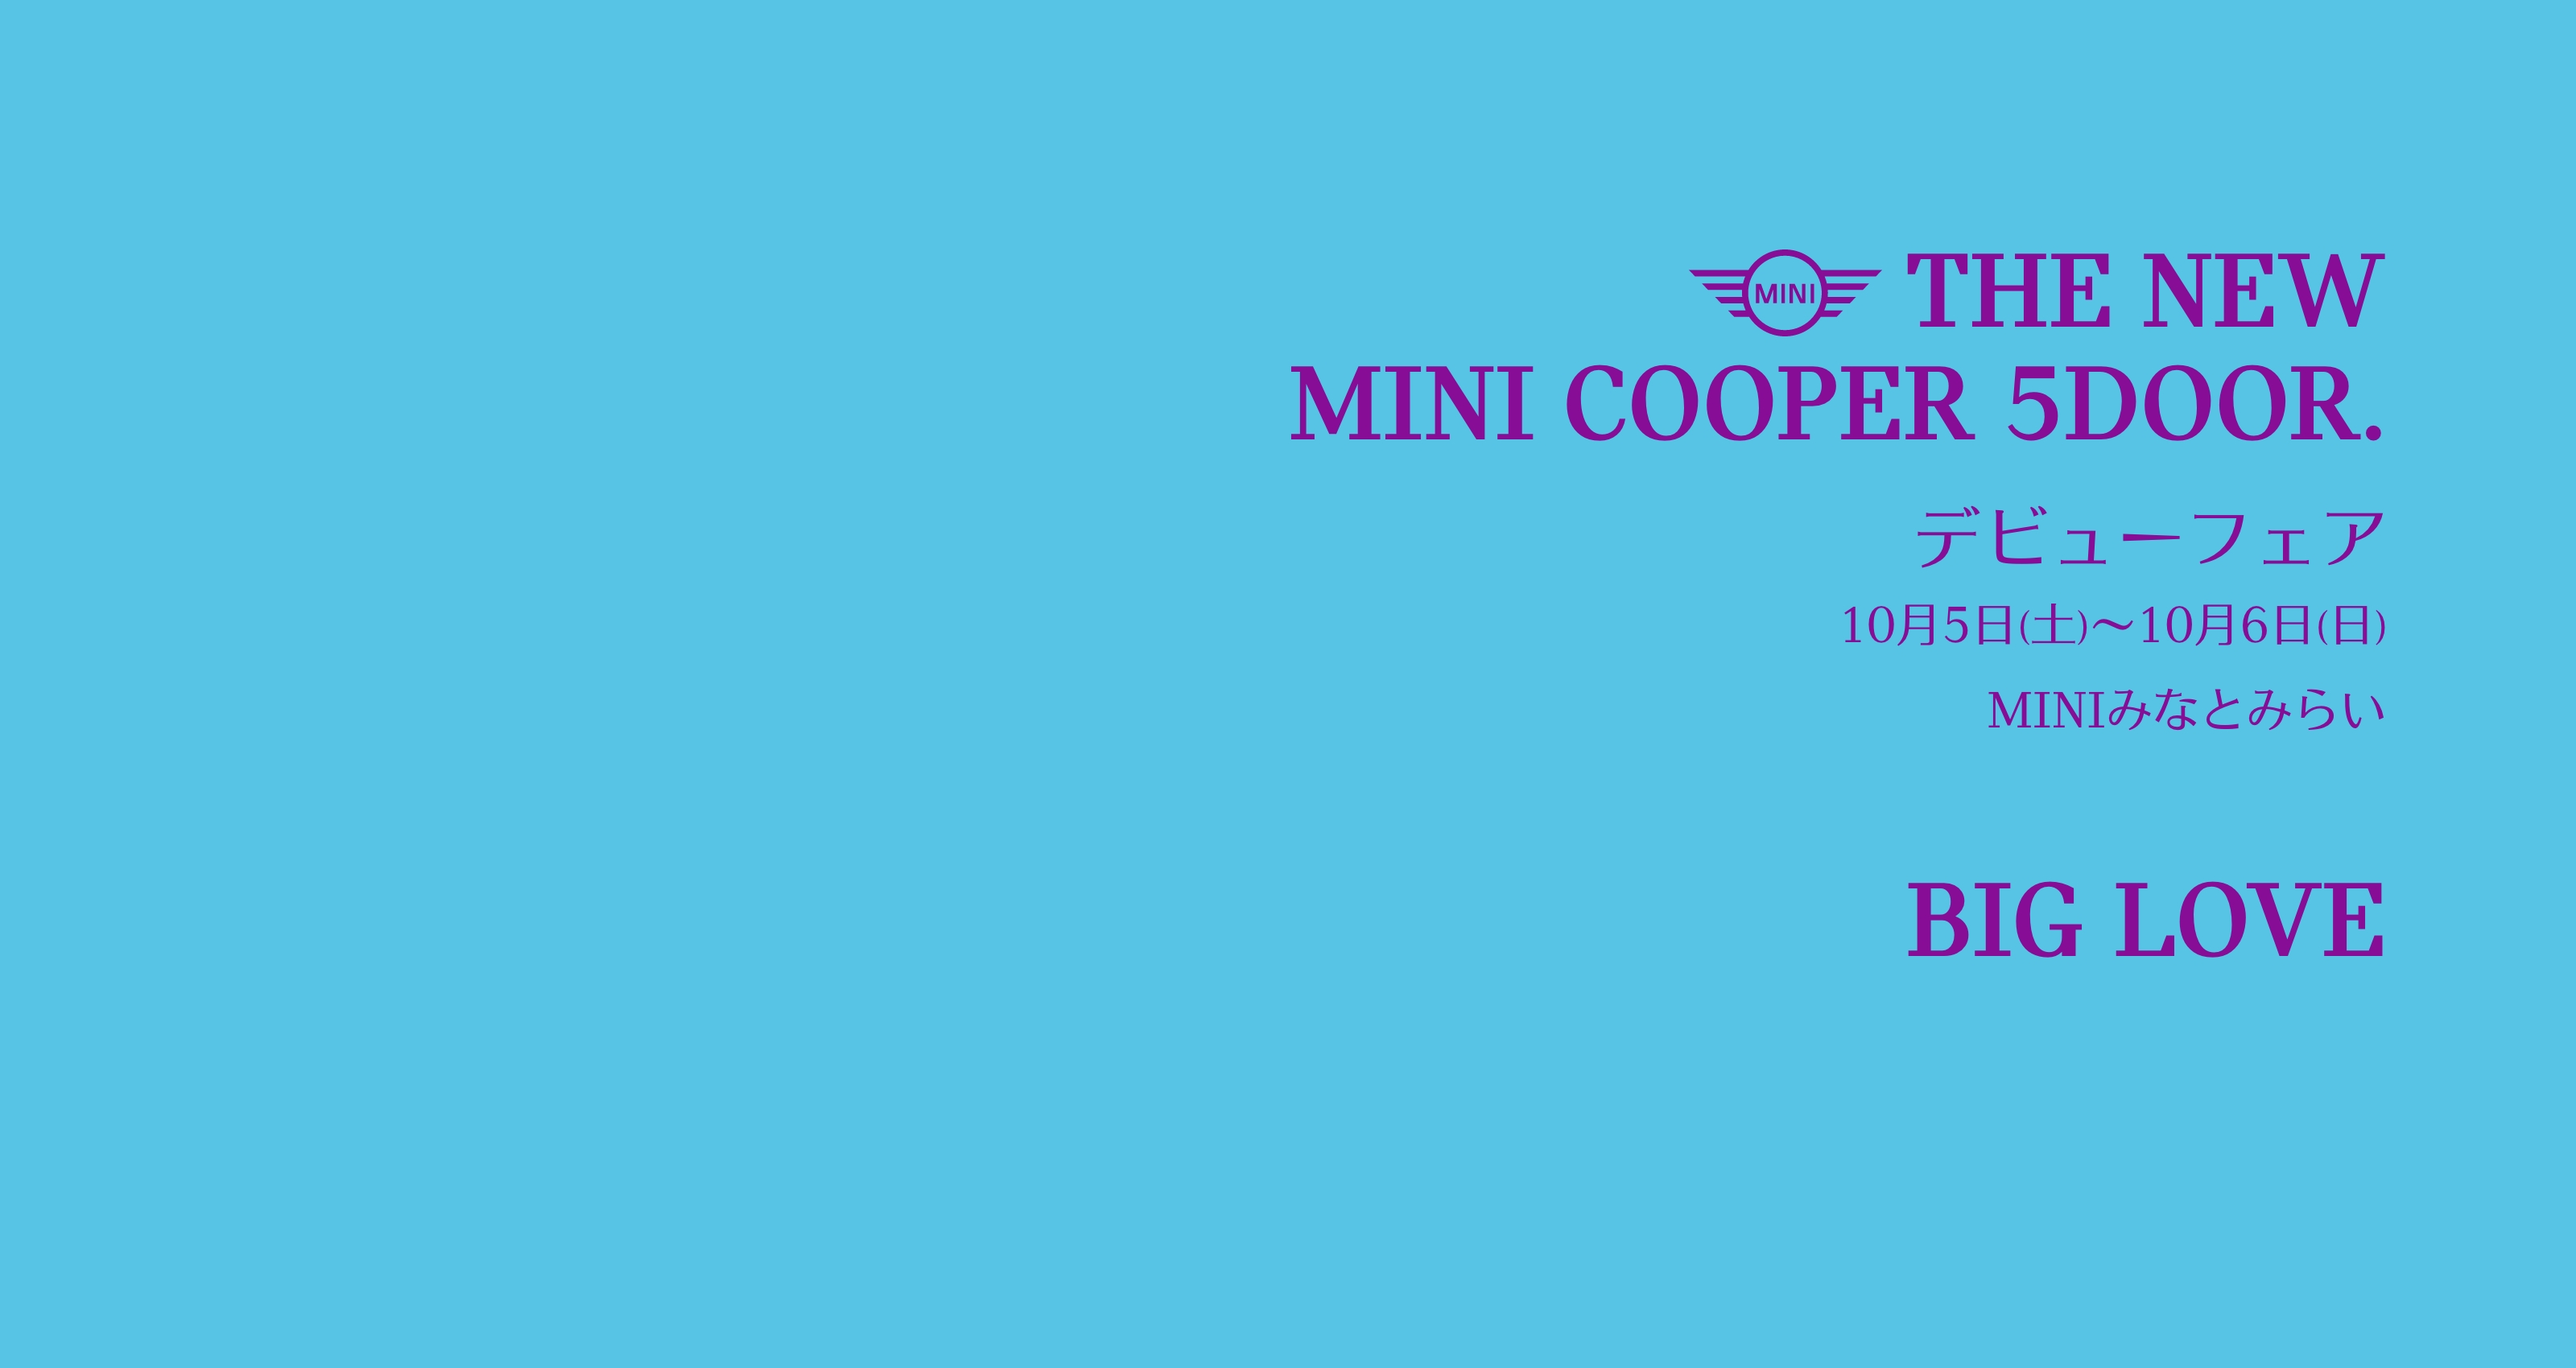
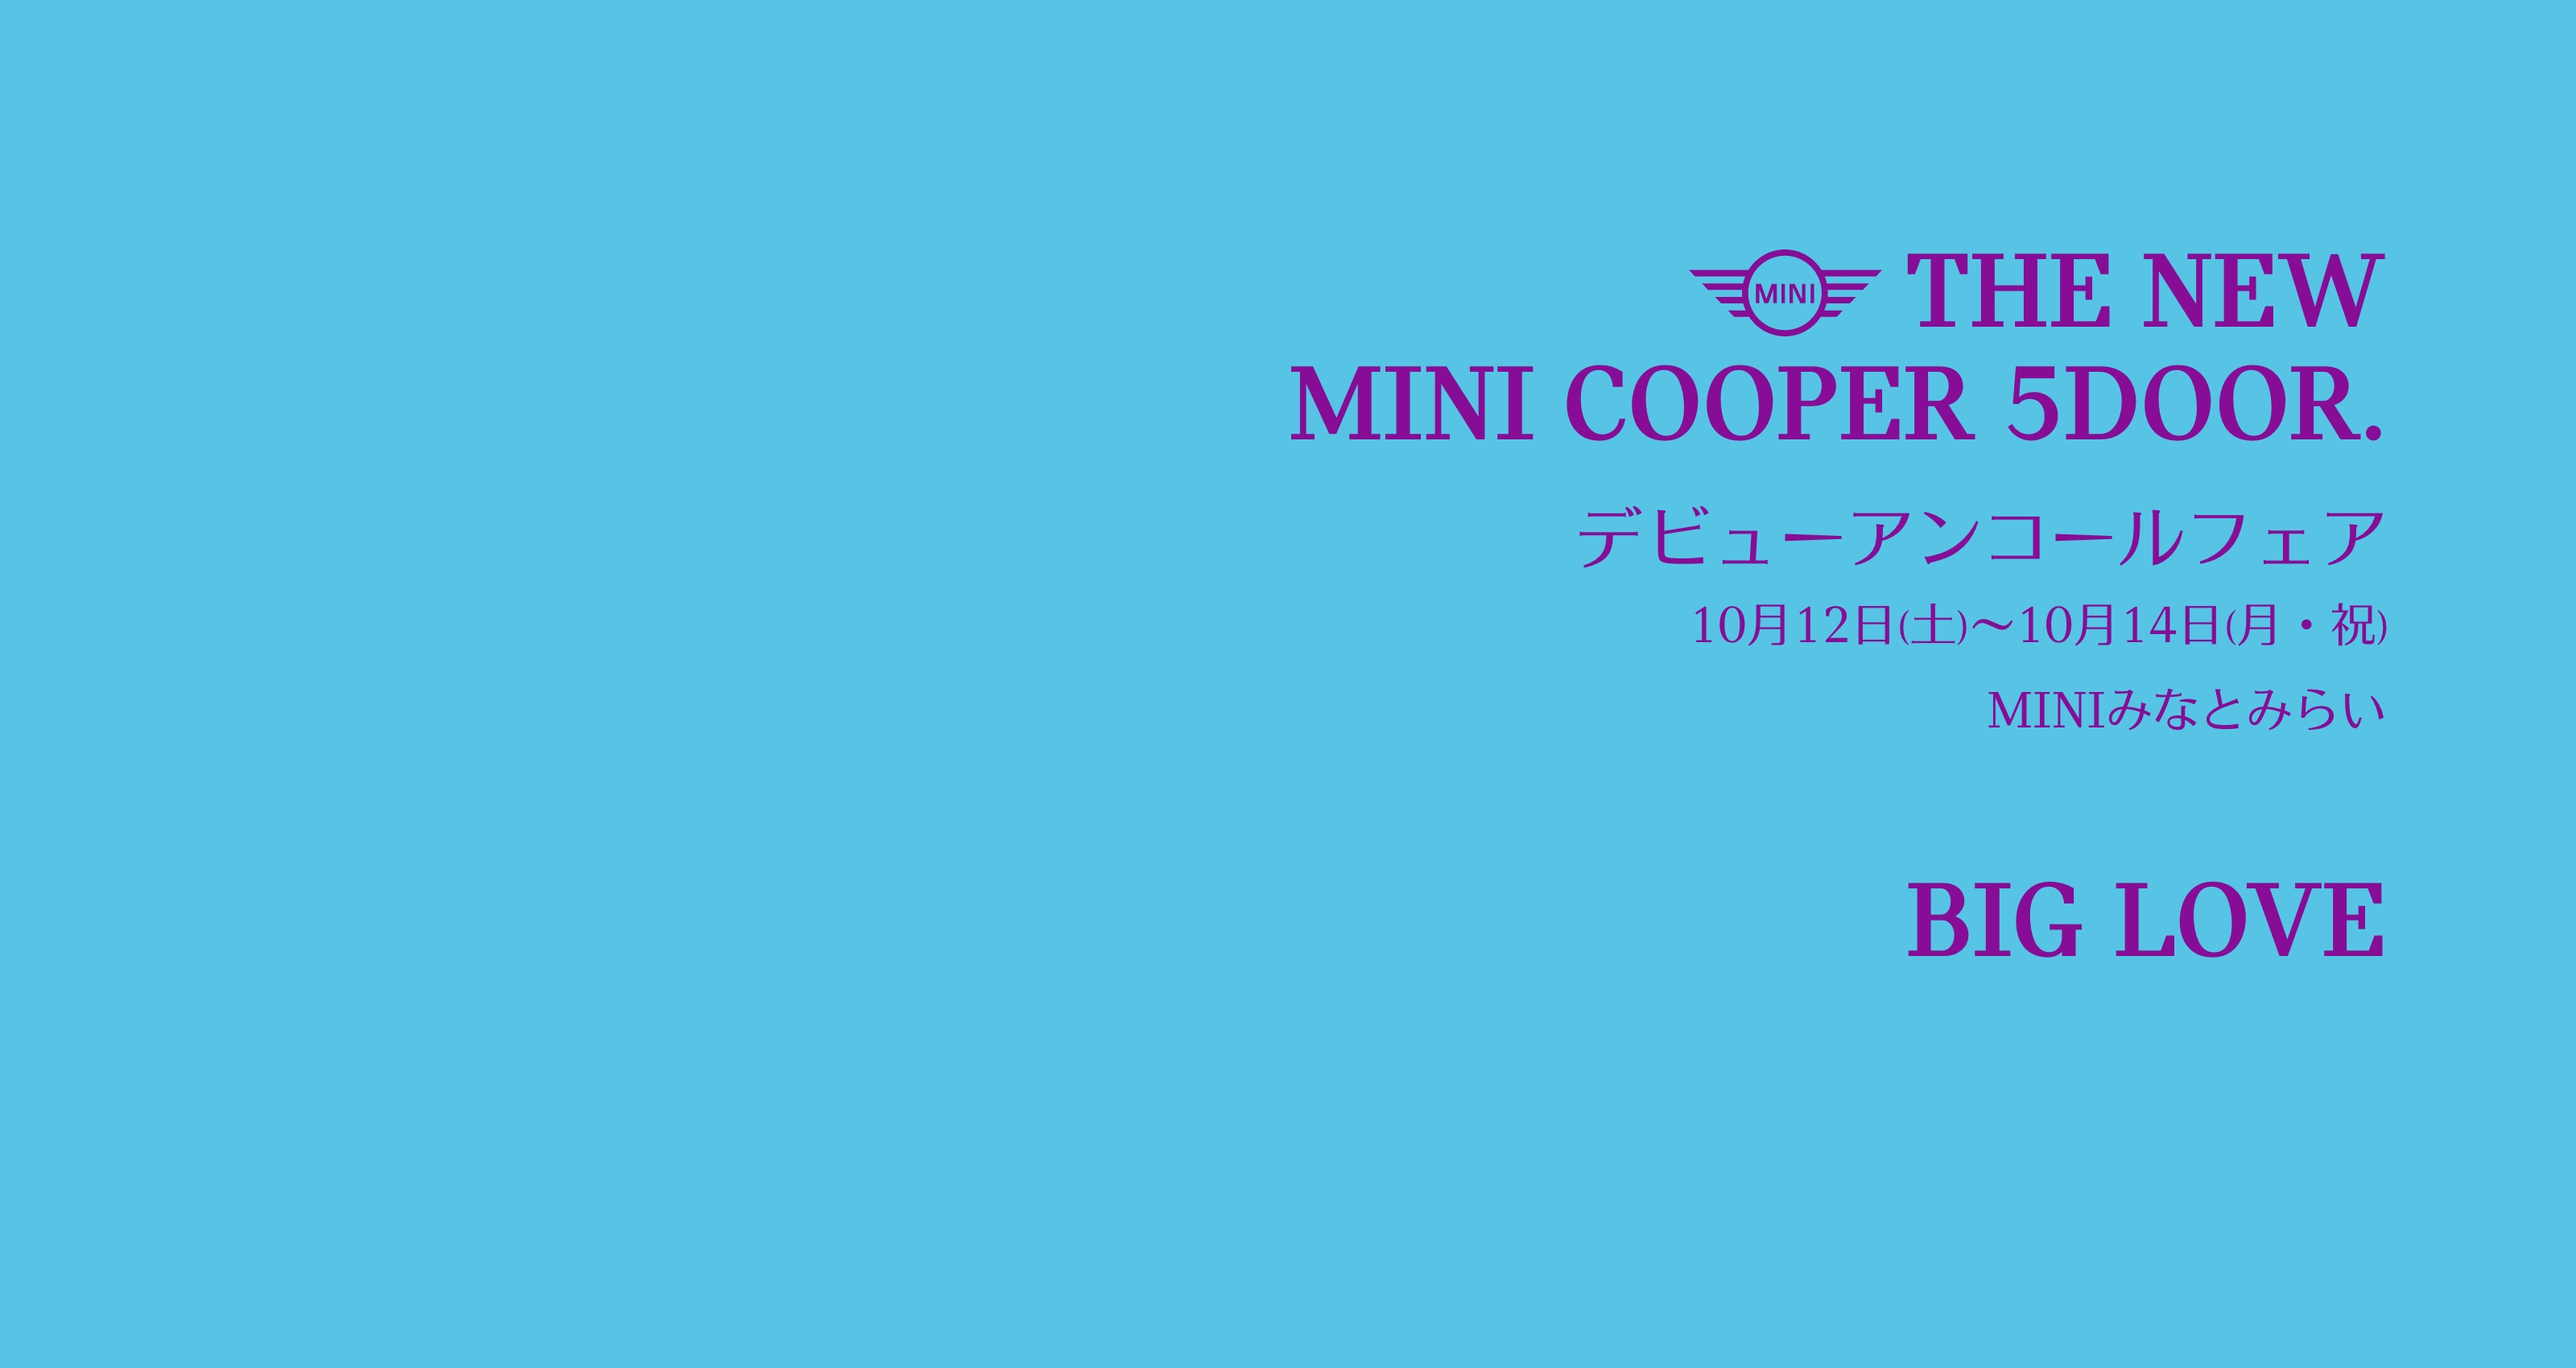
240924MINI#2変更

Changed region(s): [[0.5938, 0.3741, 0.9375, 0.4676]]

diff --git a/240924MINI/index.html b/240924MINI/index.html
@@ -13,10 +13,10 @@ j=d.createElement(s),dl=l!='dataLayer'?'&l='+l:'';j.async=true;j.src=
 <meta http-equiv="Content-Language" content="ja">
 <meta http-equiv="X-UA-Compatible" content="IE=edge,chrome=1">
 <meta name="viewport" content="width=device-width,initial-scale=1.0">
-<meta name="keywords" content="THE NEW MINI COOPER 5DOOR.デビューフェア,ウエインズインポートカーズ,神奈川MINI 港南台,MINI 湘南,MINI みなとみらい,MINI,mini,ミニ,正規ディーラー,新車">
-<meta name="description" content="THE NEW MINI COOPER 5DOOR.デビューフェア | ウエインズインポートカーズ | 神奈川県にてBMW、MINI車の新車販売、整備、用品販売、認定中古車販売をしております。">
+<meta name="keywords" content="THE NEW MINI COOPER 5DOOR.デビューアンコールフェア,ウエインズインポートカーズ,神奈川MINI 港南台,MINI 湘南,MINI みなとみらい,MINI,mini,ミニ,正規ディーラー,新車">
+<meta name="description" content="THE NEW MINI COOPER 5DOOR.デビューアンコールフェア | ウエインズインポートカーズ | 神奈川県にてBMW、MINI車の新車販売、整備、用品販売、認定中古車販売をしております。">
     
-<title>THE NEW MINI COOPER 5DOOR.デビューフェア | ウエインズインポートカーズ | MINI 正規ディーラー</title>
+<title>THE NEW MINI COOPER 5DOOR.デビューアンコールフェア | ウエインズインポートカーズ | MINI 正規ディーラー</title>
 
 <link rel="stylesheet" media="all" href="./static/css/style.css">
 <link rel="stylesheet" media="all" href="./static/css/slick.css">
